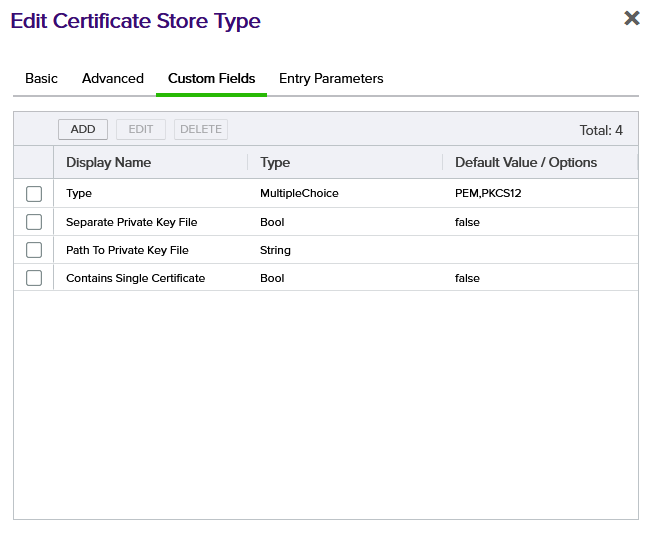
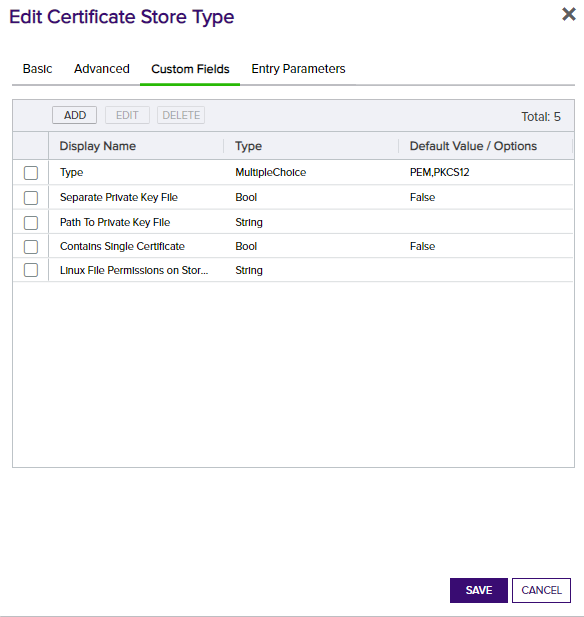
Linux permissions winrm credentials (#37) (#38)

diff --git a/PEMStoreSSH/Management.cs b/PEMStoreSSH/Management.cs
@@ -39,7 +39,11 @@ namespace Keyfactor.Extensions.Orchestrator.PEMStoreSSH
             {
                 throw new PEMException("Certificate store is set has having a separate private key but no private key path is specified in the store definition.");
             }
-            
+
+            string linuxFilePermissions = properties.linuxFilePermissionsOnStoreCreation == null || string.IsNullOrEmpty(properties.linuxFilePermissionsOnStoreCreation.Value) ?
+                ApplicationSettings.DefaultLinuxPermissionsOnStoreCreation :
+                properties.linuxFilePermissionsOnStoreCreation.Value;
+
             PEMStore pemStore = new PEMStore
             (
                 certStore.ClientMachine,
@@ -67,9 +71,9 @@ namespace Keyfactor.Extensions.Orchestrator.PEMStoreSSH
 
                         if (ApplicationSettings.CreateStoreOnAddIfMissing && !storeExists)
                         {
-                            pemStore.CreateEmptyStoreFile(certStore.StorePath);
+                            pemStore.CreateEmptyStoreFile(certStore.StorePath, linuxFilePermissions);
                             if (hasSeparatePrivateKey && privateKeyPath != null)
-                                pemStore.CreateEmptyStoreFile(privateKeyPath);
+                                pemStore.CreateEmptyStoreFile(privateKeyPath, linuxFilePermissions);
                         }
 
                         if (!ApplicationSettings.CreateStoreOnAddIfMissing && !storeExists)
@@ -95,7 +99,7 @@ namespace Keyfactor.Extensions.Orchestrator.PEMStoreSSH
                             throw new PEMException($"Certificate store {certStore.StorePath} does not exist.");
                         }
 
-                        pemStore.RemoveCertificate(jobCert.Alias);
+                        pemStore.RemoveCertificate(jobCert.Alias, linuxFilePermissions);
 
                         break;
 
@@ -105,10 +109,10 @@ namespace Keyfactor.Extensions.Orchestrator.PEMStoreSSH
                             throw new PEMException($"Certificate store {certStore.StorePath} already exists and cannot be created.");
                         }
 
-                        pemStore.CreateEmptyStoreFile(certStore.StorePath);
+                        pemStore.CreateEmptyStoreFile(certStore.StorePath, linuxFilePermissions);
                         if (hasSeparatePrivateKey && privateKeyPath != null)
                         {
-                            pemStore.CreateEmptyStoreFile(privateKeyPath);
+                            pemStore.CreateEmptyStoreFile(privateKeyPath, linuxFilePermissions);
                         }
 
                         break;

diff --git a/PEMStoreSSH/RemoteHandlers/SSHHandler.cs b/PEMStoreSSH/RemoteHandlers/SSHHandler.cs
@@ -10,12 +10,15 @@ using Renci.SshNet;
 using System;
 using System.Collections.Generic;
 using System.IO;
+using System.Text.RegularExpressions;
 using System.Text;
 
 namespace Keyfactor.Extensions.Orchestrator.PEMStoreSSH.RemoteHandlers
 {
     class SSHHandler : BaseRemoteHandler
     {
+        private const string LINUX_PERMISSION_REGEXP = "^[0-7]{3}$";
+
         private ConnectionInfo Connection { get; set; }
 
         internal SSHHandler(string server, string serverLogin, string serverPassword)
@@ -79,7 +82,7 @@ namespace Keyfactor.Extensions.Orchestrator.PEMStoreSSH.RemoteHandlers
                         _logger.LogDebug($"RunCommand: {displayCommand}");
                         command.Execute();
                         _logger.LogDebug($"SSH Results: {displayCommand}::: {command.Result}::: {command.Error}");
-                        return command.Result;
+                        return commandText.StartsWith("ls ", StringComparison.OrdinalIgnoreCase) && string.IsNullOrEmpty(command.Result) && !string.IsNullOrEmpty(command.Error) ? command.Error : command.Result;
                     }
                 }
                 finally
@@ -247,15 +250,23 @@ namespace Keyfactor.Extensions.Orchestrator.PEMStoreSSH.RemoteHandlers
             RunCommand($"rm {path}", null, ApplicationSettings.UseSudo, null);
         }
 
-        public override void CreateEmptyStoreFile(string path)
+        public override void CreateEmptyStoreFile(string path, string linuxFilePermissions)
         {
-            RunCommand($"touch {path}", null, ApplicationSettings.UseSudo, null);
+            AreLinuxPermissionsValid(linuxFilePermissions);
+            RunCommand($"install -m {linuxFilePermissions} /dev/null {path}", null, false, null);
 
             // modify file owner if cert store file was created with sudo
             if (ApplicationSettings.UseSudo)
             {
                 RunCommand($"who | awk '{{print $1}}' | (read user; sudo chown $user {path} )", null, ApplicationSettings.UseSudo, null);
             }            
+        }
+
+        public static void AreLinuxPermissionsValid(string permissions)
+        {
+            Regex regex = new Regex(LINUX_PERMISSION_REGEXP);
+            if (!regex.IsMatch(permissions))
+                throw new PEMException($"Invalid format for Linux file permissions.  This value must be exactly 3 digits long with each digit between 0-7 but found {permissions} instead.");
         }
 
         private string ReplaceSpacesWithLF(string privateKey)

diff --git a/PEMStoreSSH/RemoteHandlers/WinRMHandler.cs b/PEMStoreSSH/RemoteHandlers/WinRMHandler.cs
@@ -10,12 +10,15 @@ using System;
 using System.Collections.Generic;
 using System.Management.Automation;
 using System.Management.Automation.Runspaces;
+using System.Net;
 using System.Text;
 
 namespace Keyfactor.Extensions.Orchestrator.PEMStoreSSH.RemoteHandlers
 {
     class WinRMHandler : BaseRemoteHandler
     {
+        WSManConnectionInfo connectionInfo { get; set; }
+
         internal WinRMHandler(string server, string serverLogin, string serverPassword)
         {
             if (string.IsNullOrEmpty(server))
@@ -24,6 +27,11 @@ namespace Keyfactor.Extensions.Orchestrator.PEMStoreSSH.RemoteHandlers
             }
 
             Server = server;
+            connectionInfo = new WSManConnectionInfo(new System.Uri($"{Server}/wsman"));
+            if (!string.IsNullOrEmpty(serverLogin))
+            {
+                connectionInfo.Credential = new PSCredential(serverLogin, new NetworkCredential(serverLogin, serverPassword).SecurePassword);
+            }
         }
 
         public override string RunCommand(string commandText, object[] parameters, bool withSudo, string[] passwordsToMaskInLog)
@@ -32,7 +40,6 @@ namespace Keyfactor.Extensions.Orchestrator.PEMStoreSSH.RemoteHandlers
 
             try
             {
-                WSManConnectionInfo connectionInfo = new WSManConnectionInfo(new System.Uri($"{Server}/wsman"));
                 if (ApplicationSettings.UseNegotiateAuth)
                 {
                     connectionInfo.AuthenticationMechanism = AuthenticationMechanism.Negotiate;
@@ -146,7 +153,7 @@ namespace Keyfactor.Extensions.Orchestrator.PEMStoreSSH.RemoteHandlers
             RunCommand($@"rm ""{path}""", null, false, null);
         }
         
-        public override void CreateEmptyStoreFile(string path)
+        public override void CreateEmptyStoreFile(string path, string linuxFilePermissions)
         {
             RunCommand($@"Out-File -FilePath ""{path}""", null, false, null);
         }

diff --git a/PEMStoreSSH/ApplicationSettings.cs b/PEMStoreSSH/ApplicationSettings.cs
@@ -19,6 +19,9 @@ namespace Keyfactor.Extensions.Orchestrator.PEMStoreSSH
         public static string SeparateUploadFilePath { get; set; }
         public static bool UseNegotiateAuth { get; set; }
         public static bool UseSCP { get; set; }
+        public static string DefaultLinuxPermissionsOnStoreCreation { get; set; }
+
+        private const string DEFAULT_LINUX_PERMISSION_SETTING = "600";
 
         public static void Initialize(string currLocation)
         {
@@ -40,6 +43,7 @@ namespace Keyfactor.Extensions.Orchestrator.PEMStoreSSH
             SeparateUploadFilePath = AddTrailingSlash(jsonContents.SeparateUploadFilePath.Value);
             UseNegotiateAuth = jsonContents.UseNegotiateAuth.Value.Equals("Y", System.StringComparison.OrdinalIgnoreCase);
             UseSCP = jsonContents.UseSCP == null || !jsonContents.UseSCP.Value.Equals("Y", System.StringComparison.OrdinalIgnoreCase) ? false : true;
+            DefaultLinuxPermissionsOnStoreCreation = jsonContents.DefaultLinuxPermissionsOnStoreCreation == null ? DEFAULT_LINUX_PERMISSION_SETTING : jsonContents.DefaultLinuxPermissionsOnStoreCreation.Value;
         }
 
         private static string AddTrailingSlash(string path)

diff --git a/PEMStoreSSH/PEMStore.cs b/PEMStoreSSH/PEMStore.cs
@@ -137,7 +137,7 @@ namespace Keyfactor.Extensions.Orchestrator.PEMStoreSSH
             }
         }
 
-        internal void RemoveCertificate(string alias)
+        internal void RemoveCertificate(string alias, string linuxFilePermissions)
         {
             try
             {
@@ -159,7 +159,7 @@ namespace Keyfactor.Extensions.Orchestrator.PEMStoreSSH
                 {
                     mutex.WaitOne();
                     SSH.RemoveCertificateFile(PrivateKeyPath);
-                    SSH.CreateEmptyStoreFile(PrivateKeyPath);
+                    SSH.CreateEmptyStoreFile(PrivateKeyPath, linuxFilePermissions);
                 }
                 catch (Exception ex)
                 {
@@ -196,9 +196,9 @@ namespace Keyfactor.Extensions.Orchestrator.PEMStoreSSH
             return CertificateHandler.IsValidStore(path, ServerType, SSH);
         }
 
-        internal void CreateEmptyStoreFile(string path)
+        internal void CreateEmptyStoreFile(string path, string linuxFilePermissions)
         {
-            SSH.CreateEmptyStoreFile(path);
+            SSH.CreateEmptyStoreFile(path, linuxFilePermissions);
         }
 
         internal bool IsStorePathValid(string path)

diff --git a/PEMStoreSSH/RemoteHandlers/BaseRemoteHandler.cs b/PEMStoreSSH/RemoteHandlers/BaseRemoteHandler.cs
@@ -33,7 +33,7 @@ namespace Keyfactor.Extensions.Orchestrator.PEMStoreSSH.RemoteHandlers
 
         public abstract void RemoveCertificateFile(string path);
 
-        public abstract void CreateEmptyStoreFile(string path);
+        public abstract void CreateEmptyStoreFile(string path, string linuxFilePermissions);
 
     }
 }

diff --git a/PEMStoreSSH/RemoteHandlers/IRemoteHandler.cs b/PEMStoreSSH/RemoteHandlers/IRemoteHandler.cs
@@ -23,6 +23,6 @@ namespace Keyfactor.Extensions.Orchestrator.PEMStoreSSH.RemoteHandlers
 
         void RemoveCertificateFile(string path);
 
-        void CreateEmptyStoreFile(string path);
+        void CreateEmptyStoreFile(string path, string linuxFilePermissions);
     }
 }

diff --git a/README.md b/README.md
@@ -61,8 +61,10 @@ In Keyfactor Command create a new Certificate Store Type similar to the one belo
 - **Private Keys** – Optional (a certificate in a PEM/PKCS12 Keystore may or may not contain a private key)
 - **PFX Password Style** – Select Custom.
 - **Job Types** – Discovery, Inventory, Add, and Remove are the 3 job types implemented by this Orchestrator
-- **Parameters** – Three custom parameters are used for this store type. They are:
+- **Parameters** – Five custom parameters are used for this store type. They are:
+
 ![](Images/setup-3.png)
+
   - **Type (Name MUST be "type"):**
 
 ![](Images/custom-field-1.png)
@@ -78,6 +80,9 @@ In Keyfactor Command create a new Certificate Store Type similar to the one belo
   - **Contains Single Certificate (Name MUST be "isSingleCertificateStore"):** Optional parameter, default value 'False'.  If set to 'True' this certificate store will be managed with the assumption that only one certificate can exist in the store.  All Management-Add jobs against this store will completely replace the contents of the store with the added certificate, assuming overwrite is set to 'True' for the job.  If overwrite is not selected ('False'), the Management-Add job will complete with an error saying a certificate already exists.  No alias/thumbprint matching will be done when adding/renewing a certificate when this value is set to 'True'.
 
 ![](Images/custom-field-4.png)
+
+  - **Linux File Permissions on Store Creation (Name MUST be "linuxFilePermissionsOnStoreCreation"):** - Optional parameter.  Overrides the optional config.json DefaultLinuxPermissionsOnStoreCreation setting (see section 4 below) for a specific certificate store.  This value will set the file permissions (Linux only) of a new certificate store created via a Management-Create job.  If this parameter is not added or added but not set, the permissions used will be derived from the DefaultLinuxPermissionsOnStoreCreation setting. 
+![](Images/custom-field-5.png)
 
 
 **2. Register the PEM_PKCS12 Orchestrator with Keyfactor**
@@ -100,13 +105,14 @@ If you choose to manually create a PEM_PKCS12 store In Keyfactor Command rather 
 
   - PAM provider information to pass the UserId/Password or UserId/SSH private key credentials
 
-  When setting up a Windows server, the format of the machine name must be – [http://_ServerName_:5985](http://ServerName:5985/), where "5985" is the WinRM port number. 5985 is the standard, but if your organization uses a different, use that.  The credentials used will be the Keyfactor Command service account.  Because of this, for Windows orchestrated servers, setting an additional set of credentials is not necessary.  **However, it is required that the *Change Credentials* link still be clicked on and the resulting dialog closed by clicking OK.**
+  When setting up a Windows server, the format of the machine name must be – http://ServerName:5985, where &quot;5985&quot; is the WinRM port number. 5985 is the standard, but if your organization uses a different port, use that.  The Keyfactor Command service account will be used if the credentials are left blank.  **However, if you choose to not enter credentials and use the Keyfactor Command service account, it is required that the *Change Credentials* link still be clicked on and the resulting dialog closed by clicking OK.**
 - **Store Path** – Required. The FULL PATH and file name of the PEM/PKCS12 store being managed. File paths on Linux servers will always begin with a "/". Windows servers will always begin with the drive letter, colon, and backslash, such as "c:\\".  Valid characters for Linux store paths include any alphanumeric character, space, forward slash, hyphen, underscore, and period. For Windows servers, the aforementioned characters as well as a colon and backslash.
 - **Type** – Select either PEM or PKCS12
 - **Separate Private Key File** – Check if the store has a separate private key file.
 - **Path to Private Key File** – If Separate Private Key File is checked, enter the FULL PATH to the private key file. File paths on Linux servers will always begin with a "/". Windows servers will always begin with the drive letter, colon, and backslash, such as "c:".
 - **Orchestrator** – Select the orchestrator you wish to use to manage this store
-- **Store Password** – Set the store password or set no password after clicking the supplied button.  If a store password is entered, this value will be used when encrypting private keys that get written to the certificate store during certificate add operations.  Selecting "No Password" will cause an unencrypted private key to be saved during add operations.
+- **Store Password** – Required. Set the store password or set no password after clicking the supplied button.  If a store password is entered, this value will be used when encrypting private keys that get written to the certificate store during certificate add operations.  Selecting "No Password" will cause an unencrypted private key to be saved during add operations.
+- **Linux File Permissions on Store Creation** - Optional (Linux only). Set the Linux file permissions you wish to be set when creating a new physical certificate store via checking Create Certificate Store above.  This value must be 3 digits all betwwen 0-7.  
 - **Inventory Schedule** – Set a schedule for running Inventory jobs or none, if you choose not to schedule Inventory at this time.
 
 **3b. (Optional) Schedule a PEM_PKCS12 Discovery Job**
@@ -127,7 +133,7 @@ First, in Keyfactor Command navigate to Certificate Locations =\> Certificate St
 
   - PAM provider information to pass the UserId/Password or UserId/SSH private key credentials
 
-  When setting up a Windows server, the format of the machine name must be – [http://_ServerName_:5985](http://ServerName:5985/), where "5985" is the WinRM port number. 5985 is the standard, but if your organization uses a different, use that.  The credentials used will be the Keyfactor Command service account.  Because of this, for Windows orchestrated servers, setting an additional set of credentials is not necessary.  **However, it is required that the *Change Credentials* link still be clicked on and the resulting dialog closed by clicking OK.**
+  When setting up a Windows server, the format of the machine name must be – http://ServerName:5985, where &quot;5985&quot; is the WinRM port number. 5985 is the standard, but if your organization uses a different port, use that.  The Keyfactor Command service account will be used if the credentials are left blank.  **However, if you choose to not enter credentials and use the Keyfactor Command service account, it is required that the *Change Credentials* link still be clicked on and the resulting dialog closed by clicking OK.**
 - **When** – Required. The date and time when you would like this to execute.
 - **Directories to search** – Required. A comma delimited list of the FULL PATHs and file names where you would like to recursively search for PEM/PKCS12 stores. File paths on Linux servers will always begin with a "/". Windows servers will always begin with the drive letter, colon, and backslash, such as "c:\\".  Entering the string "fullscan" when Discovering against a Windows server will automatically do a recursive search on ALL local drives on the server.
 - **Directories to ignore** – Optional. A comma delimited list of the FULL PATHs that should be recursively ignored when searching for PEM/PKCS12 stores. Linux file paths will always begin with a "/". Windows servers will always begin with the drive letter, colon, and backslash, such as "c:\\".
@@ -150,7 +156,8 @@ The PEM_PKCS12 Orchestrator uses a JSON config file:
 "UseSeparateUploadFilePath": "N",  
 "SeparateUploadFilePath": "/path/to/upload/folder/",  
 "UseNegotiateAuth": "N",  
-"UseSCP": "N"  
+"UseSCP": "N",  
+"DefaultLinuxPermissionsOnStoreCreation": "600"  
 }
 
 **UseSudo** - Y/N - Determines whether to prefix certain Linux command with "sudo". This can be very helpful in ensuring that the user id running commands ssh uses "least permissions necessary" to process each task. Setting this value to "Y" will prefix all Linux commands with "sudo" with the expectation that the command being executed on the orchestrated Linux server will look in the sudoers file to determine whether the logged in ID has elevated permissions for that specific command. For orchestrated Windows servers, this setting has no effect. Setting this value to "N" will result in "sudo" not being added to Linux commands.  
@@ -158,7 +165,8 @@ The PEM_PKCS12 Orchestrator uses a JSON config file:
 **UseSeparateUploadFilePath** (Linux only) – When adding a certificate to a PEM or PKCS12 store, the PEM_PKCS12 Orchestrator must upload the certificate being deployed to the server where the certificate store resides. Setting this value to "Y" looks to the next setting, SeparateUploadFilePath, to determine where this file should be uploaded. Set this value to "N" to use the same path where the certificate store being managed resides.  
 **SeparateUploadFilePath** (Linux only) – Only used when UseSeparateUploadFilePath is set to "Y". Set this to the path you wish to use as the location to upload and later remove PEM/PKCS12 certificate store data before being moved to the final destination.  
 **UseNegotiateAuth** (Windows only) – Y/N - Determines if WinRM should use Negotiate (Y) when connecting to the remote server.  
-**UseSCP** (Optional, Linux only) - Y/N - Detemines if SCP (Y) or SFTP (N) should be used in uploading certificate files during Management-Add jobs.
+**UseSCP** (Optional, Linux only) - Y/N - Detemines if SCP (Y) or SFTP (N) should be used in uploading certificate files during Management-Add jobs.  
+**DefaultLinuxPermissionsOnStoreCreation** (Linux only) - Optional.  Value must be 3 digits all between 0-7.  The Linux file permissions that will be set on a new certificate store created via a Management Create job.  This value will be used for all certificate stores managed by this orchestrator instance unless overridden by the optional "Linux File Permissions on Store Creation" custom parameter setting on a specific certificate store.  If "Linux File Permissions on Store Creation" and DefaultLinuxPermissionsOnStoreCreation are not set, a default permission of 600 will be used.
 
 ***
 

diff --git a/CHANGELOG.md b/CHANGELOG.md
@@ -1,3 +1,9 @@
+v2.3
+- Add new config.json setting DefaultLinuxPermissionsOnStoreCreation, and certificate store type custom parameter linuxFilePermissionsOnStoreCreation
+- Add ability to use client machine credentials for WinRM Windows servers rather than always using the Keyfactor service account 
+
+
+
 v2.2
 - Limit the valid characters that can be used for store paths to protect against command injection.
 
